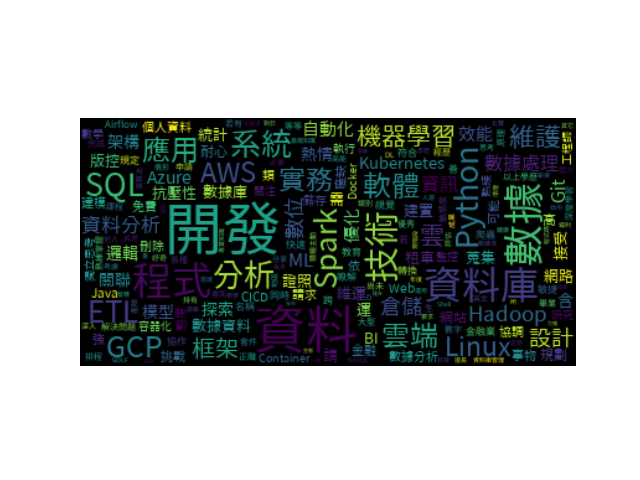
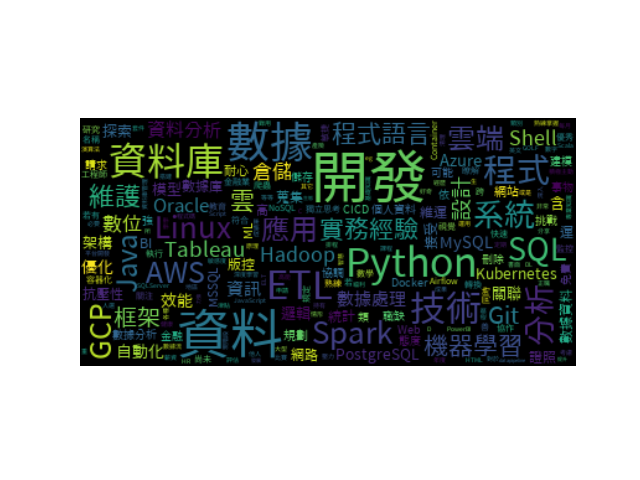
更改文字雲分析

Changed region(s): [[0.125, 0.25, 0.9062, 0.7812]]

diff --git a/worldCloud.py b/worldCloud.py
@@ -60,7 +60,7 @@ class textCloud:
         seg_stop_words_list = []
         seg_words_list = []
         # 將專有名詞加入自定義詞
-        self.toolData('擅長工具')
+        # self.toolData('擅長工具')
         for word in allow_words:
             jieba.add_word(word)
         # 去除標點並jieba分詞
@@ -78,6 +78,6 @@ class textCloud:
         # plt.show()
         # plt.close()
 if __name__ == "__main__":
-    res = textCloud('AI工程師')
+    res = textCloud('資料工程師')
     res.jobContentCloud('工作內容')
     res.jobContentCloud('其他條件')
